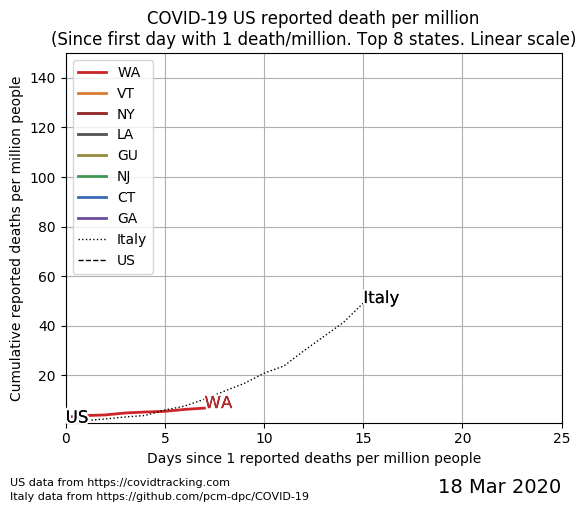
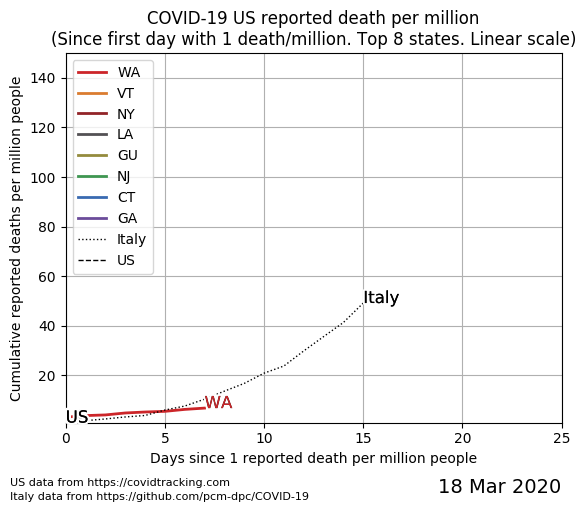
Fix typo in graph label -> "1 reported death"

Changed region(s): [[0.2457, 0.875, 0.8294, 0.9062]]

diff --git a/plot.py b/plot.py
@@ -584,7 +584,7 @@ class CovidCases:
 		options.y_max = _y_max_for_deaths_norm
 		options.max_days = _num_days_for_deaths_norm
 		options.title = title % (top_n, 'Log')
-		options.x_label = 'Days since 1 reported deaths per million people'
+		options.x_label = 'Days since 1 reported death per million people'
 		options.y_label = 'Cumulative reported deaths per million people'
 		options.processor = self.process_normalize_and_filter
 		options.threshold = 1
